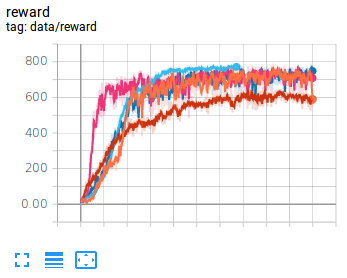
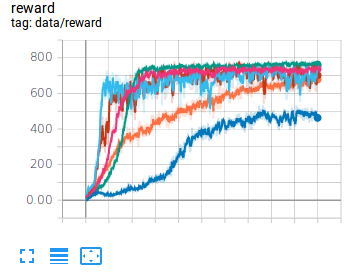
add trpo

Changed region(s): [[0.0576, 0.146, 0.9798, 0.8175], [0.0, 0.0, 0.2882, 0.1168], [0.0288, 0.8759, 0.2882, 0.9927]]

diff --git a/trpo.py b/trpo.py
@@ -1,0 +1,205 @@
+import tensorflow as tf
+import numpy as np
+import core as cr
+import gym
+from tensorboardX import SummaryWriter
+
+class TRPO:
+    def __init__(self):
+        self.sess = tf.Session()
+        self.gamma = 0.99
+        self.lamda = 0.95
+        self.state_size = 33
+        self.output_size = 4
+        self.hidden = [400, 300]
+        self.batch_size = 32
+        self.pi_lr = 0.00025
+        self.v_lr = 0.00025
+        self.ppo_eps = 0.2
+        self.epoch = 10
+        self.damping_coeff = 0.1
+        self.cg_iters = 10
+        self.train_v_iters = 10
+        self.backtrack_iters = 10
+        self.EPS = 1e-8
+        self.delta = 0.01
+        self.algo = 'trpo'
+        self.backtrack_coeff = 0.8
+
+        self.x_ph, self.a_ph, self.adv_ph, self.target_ph, self.logp_old_ph = \
+            cr.placeholders(self.state_size, self.output_size, None, None, None)
+
+        self.pi, self.logp, self.logp_pi, self.info, self.info_phs, self.d_kl, self.v = \
+            cr.trpo_mlp_actor_critic(
+                x=self.x_ph,
+                a=self.a_ph,
+                hidden=self.hidden,
+                activation=tf.nn.relu,
+                output_activation=None,
+                output_size=self.output_size
+            )
+        
+        self.all_phs = [self.x_ph, self.a_ph, self.adv_ph, self.target_ph, self.logp_old_ph] + cr.values_as_sorted_list(self.info_phs)
+        self.get_action_ops = [self.pi, self.v, self.logp_pi] + cr.values_as_sorted_list(self.info)
+
+        self.ratio = tf.exp(self.logp - self.logp_old_ph)
+        self.pi_loss = -tf.reduce_mean(self.ratio * self.adv_ph)
+        self.v_loss = tf.reduce_mean((self.v - self.target_ph) ** 2)
+
+        self.train_vf = tf.train.AdamOptimizer(learning_rate=self.v_lr).minimize(self.v_loss)
+
+        self.pi_params = cr.get_vars('pi')
+        self.gradient = cr.flat_grad(self.pi_loss, self.pi_params)
+        self.v_ph, self.hvp = cr.hessian_vector_product(self.d_kl, self.pi_params)
+        if self.damping_coeff > 0:
+            self.hvp += self.damping_coeff * self.v_ph
+        self.get_pi_params = cr.flat_concat(self.pi_params)
+        self.set_pi_params = cr.assign_params_from_flat(self.v_ph, self.pi_params)
+
+        self.sess.run(tf.global_variables_initializer())
+
+    def cg(self, Ax, b):
+        x = np.zeros_like(b)
+        r = b.copy()
+        p = r.copy()
+        r_dot_old = np.dot(r,r)
+        for _ in range(self.cg_iters):
+            z = Ax(p)
+            alpha = r_dot_old / (np.dot(p, z) + self.EPS)
+            x += alpha * p
+            r -= alpha * z
+            r_dot_new = np.dot(r,r)
+            p = r + (r_dot_new / r_dot_old) * p
+            r_dot_old = r_dot_new
+        return x
+
+    def update(self, state, action, target, adv, logp_old, old_info):
+        zip_ph = [state, action, target, adv, logp_old, old_info[:, 0], old_info[:, 1]]
+        inputs = {k:v for k,v in zip(self.all_phs, zip_ph)}
+        Hx = lambda x : self.sess.run(self.hvp, feed_dict={**inputs, self.v_ph: x})
+        g, pi_l_old, v_l_old = self.sess.run([self.gradient, self.pi_loss, self.v_loss], feed_dict=inputs)
+
+        x = self.cg(Hx, g)
+        alpha = np.sqrt(2*self.delta/(np.dot(x, Hx(x)) + self.EPS))
+        old_params = self.sess.run(self.get_pi_params)
+
+        if self.algo == 'npg':
+            kl, pi_l_new = self.set_and_eval(1., inputs, old_params, alpha, x)
+
+        elif self.algo == 'trpo':
+            for j in range(self.backtrack_iters):
+                kl, pi_l_new = self.set_and_eval(self.backtrack_coeff ** j, inputs, old_params, alpha, x)
+                if kl <= self.delta and pi_l_new <= pi_l_old:
+                    break
+                if j == (self.backtrack_iters - 1):
+                    kl, pi_l_new = self.set_and_eval(0., inputs, old_params, alpha, x)
+        
+        for _ in range(self.train_v_iters):
+            self.sess.run(self.train_vf, feed_dict=inputs)
+        v_l_new = self.sess.run(self.v_loss, feed_dict=inputs)
+
+        return pi_l_old, v_l_old, kl, pi_l_new - pi_l_old, v_l_new, v_l_old
+
+
+    def set_and_eval(self, step, inputs, old_params, alpha, x):
+        self.sess.run(self.set_pi_params, feed_dict={self.v_ph: old_params - alpha * x * step})
+        return self.sess.run([self.d_kl, self.pi_loss], feed_dict=inputs)
+
+    def get_action(self, state):
+        agent_outs = self.sess.run(self.get_action_ops, feed_dict={self.x_ph: [state]})
+        a, v_t, logp_t, info_t = agent_outs[0][0], agent_outs[1][0], agent_outs[2][0], agent_outs[3:]
+        return a, v_t, logp_t, info_t
+
+    def run(self):
+        from mlagents.envs import UnityEnvironment
+
+        writer = SummaryWriter('runs/trpo')
+        num_worker = 20
+        state_size = self.state_size
+        output_size = self.output_size
+        n_step = 128
+        ep = 0
+        score = 0
+
+        env = UnityEnvironment(file_name='env/training', worker_id=0)
+        default_brain = env.brain_names[0]
+        brain = env.brains[default_brain]
+        initial_observation = env.reset()
+
+        states= np.zeros([num_worker, state_size])
+        
+        while True:
+            values_list, states_list, actions_list, dones_list, logp_ts_list, rewards_list, infos_list = \
+                [], [], [], [], [], [], []
+            for _ in range(n_step):
+                inference = [self.get_action(s) for s in states]
+                actions = [inf[0] for inf in inference]
+                values = [inf[1] for inf in inference]
+                logp_ts = [inf[2] for inf in inference]
+                info_ts = [inf[3] for inf in inference]
+
+                env_info = env.step(actions)[default_brain]
+
+                next_states = env_info.vector_observations
+                rewards = env_info.rewards
+                dones = env_info.local_done
+
+                score += sum(rewards)
+
+                states_list.append(states)
+                values_list.append(values)
+                actions_list.append(actions)
+                dones_list.append(dones)
+                logp_ts_list.append(logp_ts)
+                rewards_list.append(rewards)
+                infos_list.append(info_ts)
+
+                states = next_states
+
+                if dones[0]:
+                    ep += 1
+                    if ep < 1000:
+                        writer.add_scalar('data/reward', score, ep)
+                        print(ep, score)
+                    score = 0
+
+            inference = [self.get_action(s) for s in states]
+            values = [inf[1] for inf in inference]
+            values_list.append(values)
+            values_list = np.stack(values_list).transpose([1, 0])
+
+            current_value_list = values_list[:, :-1]
+            next_value_list = values_list[:, 1:]
+
+            states_list = np.stack(states_list).transpose([1, 0, 2]).reshape([-1, state_size])
+            actions_list = np.stack(actions_list).transpose([1, 0, 2]).reshape([-1, output_size])
+            dones_list = np.stack(dones_list).transpose([1, 0]).reshape([-1])
+            logp_ts_list = np.stack(logp_ts_list).transpose([1, 0]).reshape([-1])
+            rewards_list = np.stack(rewards_list).transpose([1, 0]).reshape([-1])
+            current_value_list = np.stack(current_value_list).reshape([-1])
+            next_value_list = np.stack(next_value_list).reshape([-1])
+            infos_list = np.stack(infos_list).transpose([1, 0, 2, 3, 4]).reshape([-1, 2, output_size])
+            
+            adv_list, target_list = [], []
+            for idx in range(num_worker):
+                start_idx = idx * n_step
+                end_idx = (idx + 1) * n_step
+                adv, target = cr.get_gaes(
+                    rewards_list[start_idx : end_idx],
+                    dones_list[start_idx : end_idx],
+                    current_value_list[start_idx : end_idx],
+                    next_value_list[start_idx : end_idx],
+                    self.gamma,
+                    self.lamda,
+                    True
+                )
+                adv_list.append(adv)
+                target_list.append(target)
+            adv_list = np.stack(adv_list).reshape([-1])
+            target_list = np.stack(target_list).reshape([-1])
+            self.update(states_list, actions_list, target_list, adv_list, logp_ts_list, infos_list)
+
+
+if __name__ == '__main__':
+    agent = TRPO()
+    agent.run()

diff --git a/core.py b/core.py
@@ -4,6 +4,12 @@ import copy
 
 EPS = 1e-8
 
+def keys_as_sorted_list(dict):
+    return sorted(list(dict.keys()))
+
+def values_as_sorted_list(dict):
+    return [dict[k] for k in keys_as_sorted_list(dict)]
+
 def get_gaes(rewards, dones, values, next_values, gamma, lamda, normalize):
     deltas = [r + gamma * (1 - d) * nv - v for r, d, nv, v in zip(rewards, dones, next_values, values)]
     deltas = np.stack(deltas)
@@ -60,6 +66,50 @@ def apply_squashing_func(mu, pi, logp_pi):
     # To avoid evil machine precision error, strictly clip 1-pi**2 to [0,1] range.
     logp_pi -= tf.reduce_sum(tf.log(clip_but_pass_gradient(1 - pi**2, l=0, u=1) + 1e-6), axis=1)
     return mu, pi, logp_pi
+
+def diagonal_gaussian_kl(mu0, log_std0, mu1, log_std1):
+    var0, var1 = tf.exp(2 * log_std0), tf.exp(2 * log_std1)
+    pre_sum = 0.5*(((mu1- mu0)**2 + var0)/(var1 + EPS) - 1) +  log_std1 - log_std0
+    all_kls = tf.reduce_sum(pre_sum, axis=1)
+    return tf.reduce_mean(all_kls)
+
+def flat_concat(xs):
+    return tf.concat([tf.reshape(x,(-1,)) for x in xs], axis=0)
+
+def flat_grad(f, params):
+    return flat_concat(tf.gradients(xs=params, ys=f))
+
+def hessian_vector_product(f, params):
+    # for H = grad**2 f, compute Hx
+    g = flat_grad(f, params)
+    x = tf.placeholder(tf.float32, shape=g.shape)
+    return x, flat_grad(tf.reduce_sum(g*x), params)
+
+def assign_params_from_flat(x, params):
+    flat_size = lambda p : int(np.prod(p.shape.as_list())) # the 'int' is important for scalars
+    splits = tf.split(x, [flat_size(p) for p in params])
+    new_params = [tf.reshape(p_new, p.shape) for p, p_new in zip(params, splits)]
+    return tf.group([tf.assign(p, p_new) for p, p_new in zip(params, new_params)])
+
+## for trpo
+def trpo_mlp_actor_critic(x, a, hidden, activation, output_activation, output_size):
+    with tf.variable_scope('pi'):
+        mu = actor_mlp_without_action(x, hidden, output_size, activation, output_activation)
+        log_std = tf.ones(tf.shape(mu)) * -1.0
+        std = tf.exp(log_std)
+        pi = mu + tf.random_normal(tf.shape(mu)) * std
+        logp = gaussian_likelihood(a, mu, log_std)
+        logp_pi = gaussian_likelihood(pi, mu, log_std)
+
+        old_mu_ph, old_log_std_ph = placeholders(output_size, output_size)
+        d_kl = diagonal_gaussian_kl(mu, log_std, old_mu_ph, old_log_std_ph)
+        info = {'mu': mu, 'log_std': log_std}
+        info_phs = {'mu': old_mu_ph, 'log_std': old_log_std_ph}
+
+    with tf.variable_scope('v'):
+        v = tf.squeeze(critic_mlp_without_action(x, hidden, activation, None), axis=1)
+
+    return pi, logp, logp_pi, info, info_phs, d_kl, v
 
 ## for sac
 def sac_mlp_actor_critic(x, a, hidden, activation, output_activation,
@@ -120,6 +170,7 @@ def mlp_actor_critic(x, a, hidden, activation, output_activation,
 
     return pi, q, q_pi
 
+## for td3
 def td3_mlp_actor_critic(x, a, hidden, activation, output_activation,
                         output_size, action_limit):
     with tf.variable_scope('pi'):

diff --git a/ddpg.py b/ddpg.py
@@ -15,9 +15,9 @@ class DDPG:
         self.output_size = 4
         self.action_limit = 1.0
         self.hidden = [400, 300]
-        self.batch_size = 64
-        self.pi_lr = 1e-3
-        self.q_lr = 1e-3
+        self.batch_size = 100
+        self.pi_lr = 1e-4
+        self.q_lr = 1e-4
         self.noise = OU_noise(self.output_size, 1)
 
         self.x_ph, self.a_ph, self.x2_ph, self.r_ph, self.d_ph = \
@@ -85,7 +85,7 @@ class DDPG:
     def run(self):
         from mlagents.envs import UnityEnvironment
 
-        writer = SummaryWriter()
+        writer = SummaryWriter('runs/ddpg')
         num_worker = 20
         state_size = 33
         output_size = 4

diff --git a/ppo2.py b/ppo2.py
@@ -106,7 +106,7 @@ class PPO:
         score = 0
         saver = tf.train.Saver()
 
-        env = UnityEnvironment(file_name='env/tarining', worker_id=0)
+        env = UnityEnvironment(file_name='env/training', worker_id=0)
         default_brain = env.brain_names[0]
         brain = env.brains[default_brain]
         initial_observation = env.reset()
@@ -190,5 +190,4 @@ class PPO:
 
 if __name__ == '__main__':
     agent = PPO()
-    #agent.run()
-    agent.test()
+    agent.run()

diff --git a/sac.py b/sac.py
@@ -113,7 +113,7 @@ class SAC:
     def run(self):
         from mlagents.envs import UnityEnvironment
 
-        writer = SummaryWriter()
+        writer = SummaryWriter('runs/sac')
         num_worker = self.num_worker
         state_size = self.state_size
         output_size = self.output_size

diff --git a/td3.py b/td3.py
@@ -122,7 +122,7 @@ class TD3:
     def run(self):
         from mlagents.envs import UnityEnvironment
 
-        writer = SummaryWriter()
+        writer = SummaryWriter('runs/td3')
         num_worker = 20
         state_size = 33
         output_size = 4

diff --git a/README.md b/README.md
@@ -6,6 +6,7 @@
 
 ```
 DDPG
+TRPO
 PPO
 PPO2
 SAC
@@ -27,14 +28,15 @@ TD3
    ├─ppo.py
    ├─ppo2.py
    ├─sac.py
-   └─td3.py
+   ├─td3.py
+   └─trpo.py
 ```
 
 ## Demonstration
 
 <div align="center">
   <img src="source/graph.png" width="60%" height='300'>
-  <img src="source/Screenshot_2019-03-29 TensorBoard.png" width="39%" height='200'>
+  <img src="source/table.png" width="39%" height='200'>
   <img src="source/out-2.gif" width="100%" height='400'>
 </div>
 
@@ -53,3 +55,9 @@ Reference
 [6] [Medipixel Reinforcement Learning Repository](https://github.com/medipixel/rl_algorithms)
 
 [7] [Soft Actor-Critic: Off-Policy Maximum Entropy Deep Reinforcement Learning with a Stochastic Actor](https://arxiv.org/abs/1801.01290)
+
+[8] [tensorflow reinforcement learning framework](https://github.com/RLOpensource/tensorflow_RL)
+
+[9] [Trust Region Policy Optimization](https://arxiv.org/abs/1502.05477)
+
+[10] [Addressing Function Approximation Error in Actor-Critic Methods](https://arxiv.org/abs/1802.09477)
